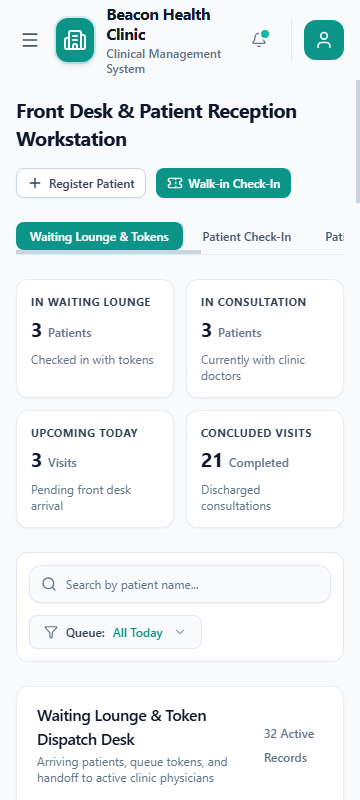
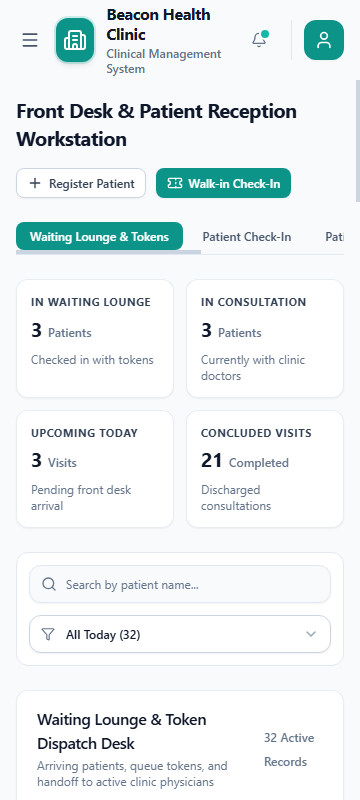
feat(ui): make all dropdown options universally typeable and searchable

diff --git a/src/components/ui/Select.tsx b/src/components/ui/Select.tsx
@@ -1,5 +1,5 @@
 import React, { useState, useRef, useEffect } from 'react';
-import { ChevronDown, Check } from 'lucide-react';
+import { ChevronDown, Check, X } from 'lucide-react';
 
 export interface SelectOption {
   value: string;
@@ -38,15 +38,17 @@ export const Select: React.FC<SelectProps> = ({
   required = false,
   id,
   icon,
-  searchable = false,
-  searchPlaceholder = 'Search options...',
+  searchable = true,
+  searchPlaceholder = 'Type to search...',
   size = 'md',
 }) => {
   const [isOpen, setIsOpen] = useState(false);
   const [isSearching, setIsSearching] = useState(false);
   const [searchQuery, setSearchQuery] = useState('');
+  const [highlightedIndex, setHighlightedIndex] = useState(-1);
   const containerRef = useRef<HTMLDivElement>(null);
   const inputRef = useRef<HTMLInputElement>(null);
+  const listRef = useRef<HTMLDivElement>(null);
 
   const selectedOption = options.find((opt) => String(opt.value) === String(value));
 
@@ -64,6 +66,7 @@ export const Select: React.FC<SelectProps> = ({
         setIsOpen(false);
         setIsSearching(false);
         setSearchQuery('');
+        setHighlightedIndex(-1);
       }
     };
     if (isOpen) {
@@ -81,6 +84,7 @@ export const Select: React.FC<SelectProps> = ({
     }
     setIsSearching(false);
     setSearchQuery('');
+    setHighlightedIndex(-1);
     setIsOpen(false);
   };
 
@@ -95,6 +99,27 @@ export const Select: React.FC<SelectProps> = ({
         );
       })
     : options;
+
+  // Auto-highlight first option when typing or reset on open
+  useEffect(() => {
+    if (isSearching) {
+      setHighlightedIndex(filteredOptions.length > 0 ? 0 : -1);
+    } else {
+      const idx = filteredOptions.findIndex((opt) => String(opt.value) === String(value));
+      setHighlightedIndex(idx >= 0 ? idx : -1);
+    }
+  }, [searchQuery, isSearching, value, options]);
+
+  // Scroll active option into view
+  useEffect(() => {
+    if (isOpen && highlightedIndex >= 0 && listRef.current) {
+      const optionElements = listRef.current.querySelectorAll('[data-option-index]');
+      const activeEl = optionElements[highlightedIndex] as HTMLElement | undefined;
+      if (activeEl) {
+        activeEl.scrollIntoView({ block: 'nearest' });
+      }
+    }
+  }, [highlightedIndex, isOpen]);
 
   const triggerSizeClasses = {
     sm: 'py-1.5 text-xs rounded-xl min-h-[36px]',
@@ -167,20 +192,49 @@ export const Select: React.FC<SelectProps> = ({
                 setIsOpen(false);
                 setIsSearching(false);
                 setSearchQuery('');
+                setHighlightedIndex(-1);
+              } else if (e.key === 'ArrowDown') {
+                e.preventDefault();
+                if (!isOpen) {
+                  setIsOpen(true);
+                } else if (filteredOptions.length > 0) {
+                  setHighlightedIndex((prev) =>
+                    prev < filteredOptions.length - 1 ? prev + 1 : 0
+                  );
+                }
+              } else if (e.key === 'ArrowUp') {
+                e.preventDefault();
+                if (!isOpen) {
+                  setIsOpen(true);
+                } else if (filteredOptions.length > 0) {
+                  setHighlightedIndex((prev) =>
+                    prev > 0 ? prev - 1 : filteredOptions.length - 1
+                  );
+                }
               } else if (e.key === 'Enter') {
                 e.preventDefault();
                 if (isOpen && filteredOptions.length > 0) {
-                  const targetOpt = (filteredOptions[0].value === '' && filteredOptions.length > 1)
-                    ? filteredOptions[1]
-                    : filteredOptions[0];
-                  handleSelect(targetOpt.value);
+                  const targetIdx =
+                    highlightedIndex >= 0 && highlightedIndex < filteredOptions.length
+                      ? highlightedIndex
+                      : filteredOptions[0].value === '' && filteredOptions.length > 1
+                      ? 1
+                      : 0;
+                  handleSelect(filteredOptions[targetIdx].value);
                 }
-              } else if (e.key === 'ArrowDown') {
-                if (!isOpen) setIsOpen(true);
+              } else if (e.key === 'Tab') {
+                if (isOpen) {
+                  setIsOpen(false);
+                  setIsSearching(false);
+                  setSearchQuery('');
+                  setHighlightedIndex(-1);
+                }
               }
             }}
             autoComplete="off"
-            className={`w-full ${triggerSizeClasses[size]} ${triggerPaddingClasses[size]} border bg-white dark:bg-slate-900 text-slate-900 dark:text-slate-100 transition-colors text-left shadow-xs focus:outline-none focus:ring-0 focus:border-teal-500 ${
+            className={`w-full ${triggerSizeClasses[size]} ${
+              isSearching && searchQuery ? 'pr-14' : triggerPaddingClasses[size]
+            } ${icon ? (size === 'lg' ? 'pl-11' : size === 'sm' ? 'pl-8' : 'pl-9') : (size === 'lg' ? 'pl-4' : 'pl-3.5')} border bg-white dark:bg-slate-900 text-slate-900 dark:text-slate-100 transition-colors text-left shadow-xs focus:outline-none focus:ring-0 focus:border-teal-500 ${
               disabled
                 ? 'opacity-50 cursor-not-allowed bg-slate-50 dark:bg-slate-800'
                 : 'cursor-text'
@@ -190,6 +244,21 @@ export const Select: React.FC<SelectProps> = ({
                 : 'border-slate-300 dark:border-slate-700 hover:border-slate-400 dark:hover:border-slate-600'
             }`}
           />
+          {isSearching && searchQuery && (
+            <button
+              type="button"
+              tabIndex={-1}
+              onClick={(e) => {
+                e.stopPropagation();
+                setSearchQuery('');
+                inputRef.current?.focus();
+              }}
+              className="absolute inset-y-0 right-8 flex items-center text-slate-400 hover:text-slate-600 dark:hover:text-slate-200 transition-colors cursor-pointer"
+              aria-label="Clear search query"
+            >
+              <X className="w-3.5 h-3.5" />
+            </button>
+          )}
           <button
             type="button"
             tabIndex={-1}
@@ -200,6 +269,7 @@ export const Select: React.FC<SelectProps> = ({
                   setIsOpen(false);
                   setIsSearching(false);
                   setSearchQuery('');
+                  setHighlightedIndex(-1);
                 } else {
                   setIsOpen(true);
                   inputRef.current?.focus();
@@ -263,6 +333,7 @@ export const Select: React.FC<SelectProps> = ({
       {/* Custom Options Popover */}
       {isOpen && (
         <div
+          ref={listRef}
           className={`absolute left-0 mt-1.5 w-full ${
             size === 'lg' ? 'max-h-80' : 'max-h-64'
           } overflow-y-auto bg-white dark:bg-slate-900 rounded-xl shadow-2xl border border-slate-200 dark:border-slate-700 py-1.5 z-50 animate-fadeIn`}
@@ -272,16 +343,21 @@ export const Select: React.FC<SelectProps> = ({
               {searchQuery ? `No options matching "${searchQuery}"` : 'No options available'}
             </div>
           ) : (
-            filteredOptions.map((opt) => {
+            filteredOptions.map((opt, idx) => {
               const isSelected = String(opt.value) === String(value);
+              const isHighlighted = idx === highlightedIndex;
               return (
                 <button
-                  key={opt.value || '__empty__'}
+                  key={opt.value || `__empty_${idx}__`}
                   type="button"
+                  data-option-index={idx}
+                  onMouseEnter={() => setHighlightedIndex(idx)}
                   onClick={() => handleSelect(opt.value)}
                   className={`w-full flex items-center justify-between ${optionItemSizeClasses[size]} text-left cursor-pointer transition-colors ${
                     isSelected
                       ? 'bg-teal-50 dark:bg-teal-950/50 text-teal-700 dark:text-teal-300 font-semibold'
+                      : isHighlighted
+                      ? 'bg-slate-100 dark:bg-slate-800 text-slate-900 dark:text-slate-100 font-medium'
                       : 'text-slate-700 dark:text-slate-200 hover:bg-slate-50 dark:hover:bg-slate-800'
                   }`}
                 >

diff --git a/src/views/ReceptionistView.tsx b/src/views/ReceptionistView.tsx
@@ -1,4 +1,4 @@
-import React, { useState, useRef, useEffect } from 'react';
+import React, { useState, useEffect } from 'react';
 import { useClinic } from '@/context/ClinicContext';
 import { useAuth } from '@/context/AuthContext';
 import { Card, CardHeader, CardTitle, CardDescription, CardContent } from '@/components/ui/Card';
@@ -23,7 +23,6 @@ import {
   Ticket,
   CheckCircle2,
   Filter,
-  ChevronDown,
 } from 'lucide-react';
 import { BloodGroup, Appointment } from '@/types';
 import { getScopedPatients, getScopedAppointments } from '@/lib/selectors';
@@ -74,26 +73,6 @@ export const ReceptionistView: React.FC<ReceptionistViewProps> = ({ activeTab = 
   // Search & Filter State
   const [searchTerm, setSearchTerm] = useState('');
   const [filterMode, setFilterMode] = useState<'all' | 'waiting' | 'urgent'>('all');
-  const [isFilterDropdownOpen, setIsFilterDropdownOpen] = useState(false);
-  const filterDropdownRef = useRef<HTMLDivElement>(null);
-
-  // Close filter dropdown on outside click
-  useEffect(() => {
-    const handleClickOutside = (event: MouseEvent) => {
-      if (
-        filterDropdownRef.current &&
-        !filterDropdownRef.current.contains(event.target as Node)
-      ) {
-        setIsFilterDropdownOpen(false);
-      }
-    };
-    if (isFilterDropdownOpen) {
-      document.addEventListener('mousedown', handleClickOutside);
-    }
-    return () => {
-      document.removeEventListener('mousedown', handleClickOutside);
-    };
-  }, [isFilterDropdownOpen]);
 
   // Real-time Feedback Notification Banner State
   const [notification, setNotification] = useState<string | null>(null);
@@ -130,6 +109,7 @@ export const ReceptionistView: React.FC<ReceptionistViewProps> = ({ activeTab = 
 
   // KPI Calculations
   const waitingCount = appointments.filter((a) => a.status === 'checked_in').length;
+  const urgentCount = appointments.filter((a) => a.status === 'checked_in' && a.tokenNumber <= 2).length;
   const inConsultCount = appointments.filter((a) => a.status === 'in_consultation').length;
   const completedCount = appointments.filter((a) => a.status === 'completed').length;
   const upcomingCount = appointments.filter((a) => a.status === 'scheduled' || a.status === 'confirmed').length;
@@ -426,90 +406,19 @@ export const ReceptionistView: React.FC<ReceptionistViewProps> = ({ activeTab = 
           />
         </div>
 
-        {/* Priority Filter as Dropdown Selector */}
-        <div className="relative" ref={filterDropdownRef}>
-          <button
-            type="button"
-            onClick={() => setIsFilterDropdownOpen((prev) => !prev)}
-            className="flex items-center gap-2 px-3.5 py-2 text-xs font-medium rounded-lg border border-slate-200 dark:border-slate-700 bg-slate-50 dark:bg-slate-800 text-slate-700 dark:text-slate-200 hover:bg-slate-100 dark:hover:bg-slate-700/80 transition-colors shadow-xs cursor-pointer focus:outline-none focus:ring-0 focus-visible:ring-1 focus-visible:ring-teal-500"
-            aria-label="Filter queue"
-            aria-expanded={isFilterDropdownOpen}
-          >
-            <Filter className="w-3.5 h-3.5 text-slate-500 dark:text-slate-400" />
-            <span>Queue:</span>
-            <span className="font-semibold text-teal-600 dark:text-teal-400">
-              {filterMode === 'all'
-                ? 'All Today'
-                : filterMode === 'waiting'
-                ? 'Waiting Lounge Only'
-                : 'Priority Patients'}
-            </span>
-            <ChevronDown className="w-3.5 h-3.5 text-slate-400 ml-0.5" />
-          </button>
-
-          {isFilterDropdownOpen && (
-            <div className="absolute right-0 mt-1.5 w-56 bg-white dark:bg-slate-900 rounded-xl shadow-lg border border-slate-200 dark:border-slate-800 py-1.5 z-30 animate-fadeIn">
-              <div className="px-3 py-1.5 text-[10px] uppercase font-semibold text-slate-400 dark:text-slate-500 border-b border-slate-100 dark:border-slate-800">
-                Filter Reception Queue
-              </div>
-              <button
-                type="button"
-                onClick={() => {
-                  setFilterMode('all');
-                  setIsFilterDropdownOpen(false);
-                }}
-                className={`w-full flex items-center justify-between px-3 py-2 text-xs transition-colors text-left cursor-pointer ${
-                  filterMode === 'all'
-                    ? 'bg-teal-50 dark:bg-teal-950/50 text-teal-700 dark:text-teal-300 font-semibold'
-                    : 'text-slate-700 dark:text-slate-200 hover:bg-slate-50 dark:hover:bg-slate-800'
-                }`}
-              >
-                <span>All Today</span>
-                <span className="text-[11px] text-slate-500 dark:text-slate-400 font-mono">
-                  ({appointments.length})
-                </span>
-              </button>
-
-              <button
-                type="button"
-                onClick={() => {
-                  setFilterMode('waiting');
-                  setIsFilterDropdownOpen(false);
-                }}
-                className={`w-full flex items-center justify-between px-3 py-2 text-xs transition-colors text-left cursor-pointer ${
-                  filterMode === 'waiting'
-                    ? 'bg-teal-50 dark:bg-teal-950/50 text-teal-700 dark:text-teal-300 font-semibold'
-                    : 'text-slate-700 dark:text-slate-200 hover:bg-slate-50 dark:hover:bg-slate-800'
-                }`}
-              >
-                <span className="flex items-center gap-1.5">
-                  <span className="w-2 h-2 rounded-full bg-teal-500 shrink-0" />
-                  Waiting Lounge
-                </span>
-                <span className="text-[11px] text-slate-500 dark:text-slate-400 font-mono">
-                  ({waitingCount})
-                </span>
-              </button>
-
-              <button
-                type="button"
-                onClick={() => {
-                  setFilterMode('urgent');
-                  setIsFilterDropdownOpen(false);
-                }}
-                className={`w-full flex items-center justify-between px-3 py-2 text-xs transition-colors text-left cursor-pointer ${
-                  filterMode === 'urgent'
-                    ? 'bg-slate-100 dark:bg-slate-800 text-slate-900 dark:text-slate-100 font-semibold'
-                    : 'text-slate-700 dark:text-slate-300 hover:bg-slate-50 dark:hover:bg-slate-800/60'
-                }`}
-              >
-                <span className="flex items-center gap-1.5">
-                  <span className="w-2 h-2 rounded-full bg-rose-500 shrink-0" />
-                  Priority Next
-                </span>
-              </button>
-            </div>
-          )}
+        {/* Priority Filter as Searchable Dropdown Selector */}
+        <div className="w-full sm:w-60 shrink-0">
+          <Select
+            icon={<Filter className="w-3.5 h-3.5 text-slate-500 dark:text-slate-400 shrink-0" />}
+            value={filterMode}
+            onChange={(e) => setFilterMode(e.target.value as 'all' | 'waiting' | 'urgent')}
+            placeholder="Filter queue"
+            options={[
+              { value: 'all', label: `All Today (${appointments.length})` },
+              { value: 'waiting', label: `Waiting Lounge (${waitingCount})` },
+              { value: 'urgent', label: `Priority Next (${urgentCount})` },
+            ]}
+          />
         </div>
       </div>
 

diff --git a/PROJECT_SPECIFICATION_AND_RULES.md b/PROJECT_SPECIFICATION_AND_RULES.md
@@ -202,7 +202,8 @@ The table below outlines the evolution of the codebase from initial repository s
 
 | Commit Hash | Commit Message / Feature Description | User Intent & Key Actions |
 | :--- | :--- | :--- |
-| `546d2ef` | `feat(doctor): display comprehensive last visit details in patient summary card` | User requested: "i want the last visit details of the paitents to be shown in the patient summary itself". Enhanced Patient Summary card in DoctorView to display comprehensive Last Visit details: previous visit date, previous triage vitals (systolic/diastolic BP, heart rate, SpO2, temperature), last reason for visit, and consulting physician derived from completed appointments and patient medical records. Updated summaryPatient resolution to stay synchronized with active desk selections. Zero emojis; 0 TypeScript errors; 112 unit tests pass. |
+| `040b651` | `feat(ui): make all dropdown options universally typeable and searchable` | User requested: "anywhere there is a drop down option i want there to be the ability to type also there". Upgraded the universal design-system Select component (src/components/ui/Select.tsx) to default searchable={true} with direct trigger input typing, real-time label/value filtering, clear query button, and complete keyboard navigation (ArrowDown, ArrowUp, Enter to select, Escape to cancel, Tab to cycle focus). Converted custom priority queue dropdown in ReceptionistView.tsx to the standard Select component. Verified that every dropdown in the application across all roles (Dashboard, Physician worklist, Doctor selection, Patient portal, Reception, and Administration) supports direct typing, instant search, and keyboard control. 0 TypeScript compiler errors; 112 unit tests pass; 0 emojis found. |
+| `be117a9` | `feat(doctor): display comprehensive last visit details in patient summary card` | User requested: "i want the last visit details of the paitents to be shown in the patient summary itself". Enhanced Patient Summary card in DoctorView to display comprehensive Last Visit details: previous visit date, previous triage vitals (systolic/diastolic BP, heart rate, SpO2, temperature), last reason for visit, and consulting physician derived from completed appointments and patient medical records. Updated summaryPatient resolution to stay synchronized with active desk selections. Zero emojis; 0 TypeScript errors; 112 unit tests pass. |
 | `879ebd5` | `docs(responsive): complete M1.6 responsive verification audit across 11 screens and 3 breakpoints` | User requested: "Run npm run build (0 TypeScript errors, 0 lint warnings), npm test, and the emoji scan. For each screen as the role that uses it, take screenshots at 360x800, 768x1024 and 1920x1080 into docs/responsive-check/ and list any remaining issues. Check that no screen scrolls sideways and nothing is cut off. Add a changelog entry, make one local commit, and report the files changed and any issue found." Completed automated CDP responsive layout and horizontal overflow audit using headless Edge across all 11 workstation screens (Login, MD Dashboard, Admin Roles, Admin Edit Users/Access Console, Doctor Consultation Desk, Doctor Patients Worklist, Doctor e-Prescriptions, Reception Waiting Lounge, Reception Check-In Directory, Reception Booking Calendar, Patient Portal) across 7 viewport widths (320px, 360px, 480px, 768px, 1024px, 1280px, 1920px). Confirmed zero horizontal scroll overflow (scrollWidth <= clientWidth) across all screens. Updated full screenshot suite in docs/responsive-check/ at 360x800, 768x1024, and 1920x1080. Build passes with 0 TS errors and 0 lint warnings; test suite passes with 112 unit tests and 0 emojis. |
 | `b8e381f` | `feat(dashboard): render summary figures as individual card blocks across all roles` | User requested: "make each as a seperate block and do the changes accordingly everythwere". Refactored role-aware Dashboard summary metrics from a single outer card into individual distinct Card blocks with rounded-xl borders and responsive grid (grid-cols-2 lg:grid-cols-4). Standardized personal record information cards in PatientView.tsx to rounded-xl. |
 | `273f019` | `feat(ui): unify combobox search directly into select trigger across forms and modals` | User requested: "and here instead of there being a drop down below the option make it with the select staff and change at places accordingly". Refactored Select.tsx searchable combobox pattern so the primary trigger input itself serves as the search query field when open, eliminating redundant nested search bars inside dropdown menus. Removed placeholder option rows across assignment modals in AccessControlView.tsx. |
